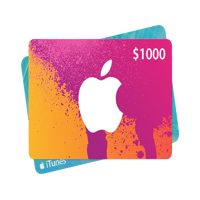
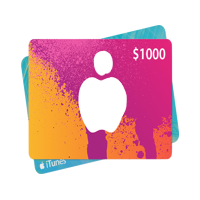
Updated readme + legally distinct apple gift card.

Changed region(s): [[0.45, 0.24, 0.57, 0.39], [0.57, 0.42, 0.66, 0.6]]

diff --git a/submission/submission.html b/submission/submission.html
@@ -47,7 +47,8 @@
                         type: 'success'
                     }, '*');
                 };
-                const sfxVol = 0.3; // sound effects volume
+                // Hey kitboga team!  my sfx volumes are a bit wack so feel free to adjust the loud ones here if they're too loud
+                const sfxVol = 0.3; // sound effects volume, boom + you win audio since it was loudest.
                 const drumrollAudio = document.getElementById('drumrollSound');
                 drumrollAudio.volume = 0.3;
                 const skipButton = document.getElementById('skip');

diff --git a/README.md b/README.md
@@ -1,180 +1,36 @@
-# Kitboga Code Jam 2026
-"Unskippable ad"
+# THE AMAZING ADREWARDS PRIZE WHEEL
+Created for the 2026 Kitboga Creation Jam by Kro
 
-This GitHub repository contains a template you should fork, modify to include your submission, and then submit to us. Please read all the information in this readme before getting started!
-**The deadline for submissions is Thursday, April 30th at 11:59 PM Eastern Time.**
+### Premise
+- Originally started as "what if you needed to open a CS style lootbox to skip the ad.
 
-## Rules
-1. Read through the [Rules & Guidelines](https://kitboga.com/codejam26/rules)
-2. Follow the guidelines in `submission/submission.html` as to where and how your code should be written.
-3. No obfuscation. If we can't read or understand the code, we're probably not going to run it.
-4. No requests for resources outside of your repository, except for well-known javascript libraries from a CDN (jsdelivr, unpkg, googleapis, etc). Aside from these, include all the assets you need in your repository, such as fonts, icons and everything else. If you have a specific idea which requires access to the Internet, perhaps to fetch live stock market data for example, then try to fake it. If it's important to you to make external requests, talk to us about it in Discord.
-5. WebAssembly and Web Workers are not allowed.
-6. Do not include minified code; this includes code generated from build tools like Vite (see also [disabling minification](https://vite.dev/config/build-options#build-minify)) or WebPack. Prefer not using any build tools, if possible.
-7. Desktop browser functionality is required; mobile-friendly is preferred, but not required. Your submission will be displayed in an iframe that scales up and down while maintaining its aspect ratio — sides will not get cut off. You can rely on the iframe boundaries (e.g. `position: absolute; right: 0;` will always be the rightmost border of the video). Test for smooth functionality on desktop browser (especially Chrome/Edge) setups, and optionally also test for mobile-friendliness. (See also [device mode on Chrome](https://developer.chrome.com/docs/devtools/device-mode/), or [responsive design mode on Firefox](https://firefox-source-docs.mozilla.org/devtools-user/responsive_design_mode/).)
+The ad is not skipped unless you roll "SKIP AD" on the wheel, hope you have some reaction times!
 
+### The Prizes
+- GoCrow Discount Code
+  - Caw! 1/20
+- Wonderful product discount codes
+  - I LOVE THIS PRODUCT captcha
+- A free trial of Maldy's Relaxation Suite to make sure you stay relaxed during your ad experience.
+  - 60s unskippable guided meditation
+- FrameBoost Ad Booster
+  - Randomly creates fake pause/play buffering for a SMOOTH experience
+- Legally distinct Apple gift card that is literally impossible to hit as bait.
+- and some random non descript AdRewards discount codes for filler.
 
-## Discord
-Please feel free to join the Kitboga discord, and hang out in the [#code-jam](https://discord.com/channels/331609590229893120/1377638134917103647) channel. That's a great place to ask for help, and it will be useful if we need to contact you about your submission for whatever reason.
-https://discord.com/kitboga
+### How Does It Work
+- Upon skipping with "AdRewards" the wheel lurches in random directions, only being stopped by the red STOP button.
+- Rewards are calculated based on the arrow pixel position and which image src it rests on top of.
+- The wheel is built based on the assigned ODDS and places them based on rarity.
 
-## Getting Started
-1. Create a GitHub repository from the template: https://github.com/new?template_name=codejam26&template_owner=The-Kitboga-Show
-2. Clone the new repository locally to your machine
-3. Open the "game shell" in your browser; this can be done in 2 ways:
-   - By opening `index.html` directly in your browser
-   - By running a local webserver (this can help with testing on different devices too). One easy way to do this, if you have python installed, is to run this command in the terminal: `python3 -m http.server 8000`. Then open [http://127.0.0.1:8000](http://127.0.0.1:8000) in your browser (the port may vary if you used a different method to start a web server).
-4. Create your game in `submission/submission.html`! All parts of your submission should be in the `submission/` folder.
-5. Commit and push your changes
-6. See the "How to Submit" section below
+### Technology Used
+- HTML
+- JavaScript
+- JQuery
+- Canvas Confetti
 
-## Forbidden APIs and functions
-Please don't use any of the following:
-- navigator.geolocation
-- navigator.getUserMedia()
-- navigator.connection
-- navigator.clipboard
-- navigator.bluetooth
-- navigator.usb
-- navigator.serial
-- navigator.requestMIDIAccess
-- window.showOpenFilePicker()
-- window.showSaveFilePicker()
-- navigator.serviceWorker
-- window.open()
-- window.print()
-- navigator.permissions
-- navigator.credentials
-- RTCPeerConnection
-- fetch, XMLHttpRequest, WebSocket, etc.
-
-## Examples
-The `examples/` folder contains several example submissions for inspiration:
-- **Buffering** (`examples/buffering/`) — Simulates frequent video buffering that pauses and resumes playback
-- **Fake X** (`examples/fake-x/`) — A fake close button that restarts the ad; the real skip link is somewhere else
-- **Slowdown** (`examples/slowdown/`) — A "Skip in 3...2...1" countdown where each second takes exponentially longer
-- **Survey** (`examples/survey/`) — A post-ad star rating survey that randomly rejects your answer
-
-Use the dropdown in the dev shell to load and test each example.
+Audio from OpenGameArt.org or created by myself.
+---
 
 
-## Prizes and Judging
-Entries will go through a series of progressive rounds of review/judging. They will first be shortlisted by a panel of Kitboga team members based on cleverness, technical skill, hookability, style and humor. See the [main webpage](https://kitboga.com/codejam26) for more clarity on these criteria.
 
-The best submissions will go on to be showcased and reviewed on-stream by Kitboga & Twitch Chat via polling, and the best of those submissions will be tested with scammers.
-
-Prizes will include merch; Amazon Prime, Twitch & Kraken+ subscriptions; Discord emoticons and roles; and more!
-
-## How to submit
-**Remember, the deadline is Thursday, April 30th at 11:59 PM Eastern Time!**
-Don't forget to [read the license](https://kitboga.com/codejam26/terms), which you'll need to agree to in order to take part.
-
-Go here: https://kitboga.com/codejam26
-
-## (Optional) Live Demo
-Add a publicly viewable demo for your submission by enabling GitHub Pages in your repository settings. Navigate to `Settings` > `Pages`, then under `Branch`, select `main`, and then press `Save`. Once the site is built the URL will appear.
-
-## FAQ
-
-**We can use requestAnimationFrame, correct?**
-Yes. Anything but the listed functions under "Forbidden APIs and functions" is allowed.
-
-**Are the ads in the same structure in the live demo? As in, located in ../ads and named something like ad_12.mp4**
-That's just an example which you can use to test your code. You won't know the name or location of the actual videos, but you can get limited info using a `getVideoInfo` request.
-
-**Is the iframe always bound to the confines of the video? Can I rely on `position: absolute; right: 0;` always being the rightmost border of the video?**
-Yes to both. We will force it to be one size, even if it is a bit on the small side for the container, so you have a consistent size to work from.
-
-**Will the actual video during the live demo be responsive? As in — will it change sizes, or just get the sides cut off, e.g. on mobile?**
-It will scale up and down, maintaining the aspect ratio — sides will not get cut off.
-
-## Further help
-Drop into the Kitboga discord server, and check out the [#code-jam](https://discord.com/channels/331609590229893120/1377638134917103647) channel. Please don't ask questions via email, as we might not see them before the deadline.
-
-## API
-
-All communication between your submission and the game shell uses `window.top.postMessage()`. Messages use the format `{ type: string, value?: any }`.
-
-### Sending events (submission -> shell)
-
-| Message                                      | Description                                                                     |
-|----------------------------------------------|---------------------------------------------------------------------------------|
-| `{ type: 'success' }`                        | The ad was successfully dismissed. Shows a success banner and reloads the page. |
-| `{ type: 'fail' }`                           | The user failed the ad. Shows a fail banner and reloads the page.               |
-| `{ type: 'play' }`                           | Resume video playback.                                                          |
-| `{ type: 'pause' }`                          | Pause video playback.                                                           |
-| `{ type: 'seekTo', value: number }`          | Seek the video to a specific time (in seconds).                                 |
-| `{ type: 'setPlaybackRate', value: number }` | Set the video playback rate (e.g. `0.5` for half speed, `2` for double).        |
-| `{ type: 'setVolume', value: number }`       | Set the video volume (`0` to `1`).                                              |
-| `{ type: 'getVideoInfo' }`                   | Request current video state. The shell responds with a `videoInfo` event.       |
-| `{ type: 'setVideoFilter', value: string }`  | Apply a CSS filter to the video (e.g. `'blur(2px)'`, `'hue-rotate(90deg)'`).    |
-
-Example:
-```js
-// Dismiss the ad
-window.top.postMessage({ type: 'success' }, '*');
-
-// Slow down the video
-window.top.postMessage({ type: 'setPlaybackRate', value: 0.25 }, '*');
-
-// Apply visual effects to the video
-window.top.postMessage({ type: 'setVideoFilter', value: 'blur(2px)' }, '*');
-window.top.postMessage({ type: 'setVideoFilter', value: 'hue-rotate(90deg) saturate(1.5)' }, '*');
-
-// Clear video filter
-window.top.postMessage({ type: 'setVideoFilter', value: 'none' }, '*');
-
-// Request current video timing info
-window.top.postMessage({ type: 'getVideoInfo' }, '*');
-```
-
-### Receiving events (shell -> submission)
-
-Listen for events from the shell using `window.addEventListener('message', ...)`.
-
-| Message                  | Description                                                                      |
-|--------------------------|----------------------------------------------------------------------------------|
-| `{ type: 'adStarted' }`  | The ad has started. Sent when the video begins playing and the iframe is loaded. |
-| `{ type: 'adFinished' }` | The video has finished playing (reached the end).                                |
-| `{ type: 'timeupdate', currentTime, duration, paused, playbackRate }` | Sent periodically during playback with current video timing info. |
-| `{ type: 'videoInfo', currentTime, duration, paused, playbackRate, volume, muted }` | Response to a `getVideoInfo` request. |
-
-Example:
-```js
-window.addEventListener('message', (event) => {
-  if (!event.data || !event.data.type) return;
-
-  switch (event.data.type) {
-    case 'adStarted':
-      // The ad has started, show your overlay
-      break;
-    case 'adFinished':
-      // The video ended, e.g. show a survey or call fail
-      break;
-    case 'timeupdate':
-      // Called frequently during playback
-      const { currentTime, duration } = event.data;
-      const timeRemaining = duration - currentTime;
-
-      // Example: Do something 10 seconds before the video ends
-      if (timeRemaining <= 10 && timeRemaining > 9) {
-        console.log('10 seconds left!');
-      }
-      break;
-    case 'videoInfo':
-      // Response to getVideoInfo request
-      console.log('Video info:', event.data);
-      break;
-  }
-});
-
-// Request video info on demand
-window.top.postMessage({ type: 'getVideoInfo' }, '*');
-
-// Apply a CSS filter to the video
-window.top.postMessage({ type: 'setVideoFilter', value: 'hue-rotate(20deg)' }, '*');
-```
-
-### Default behavior
-
-The submission template listens for `adFinished` and calls `fail` by default — if the user doesn't skip the ad before the video ends, it is marked as a fail. You can replace this with any other interaction (see `examples/survey`), but your submission must eventually call success or fail.
